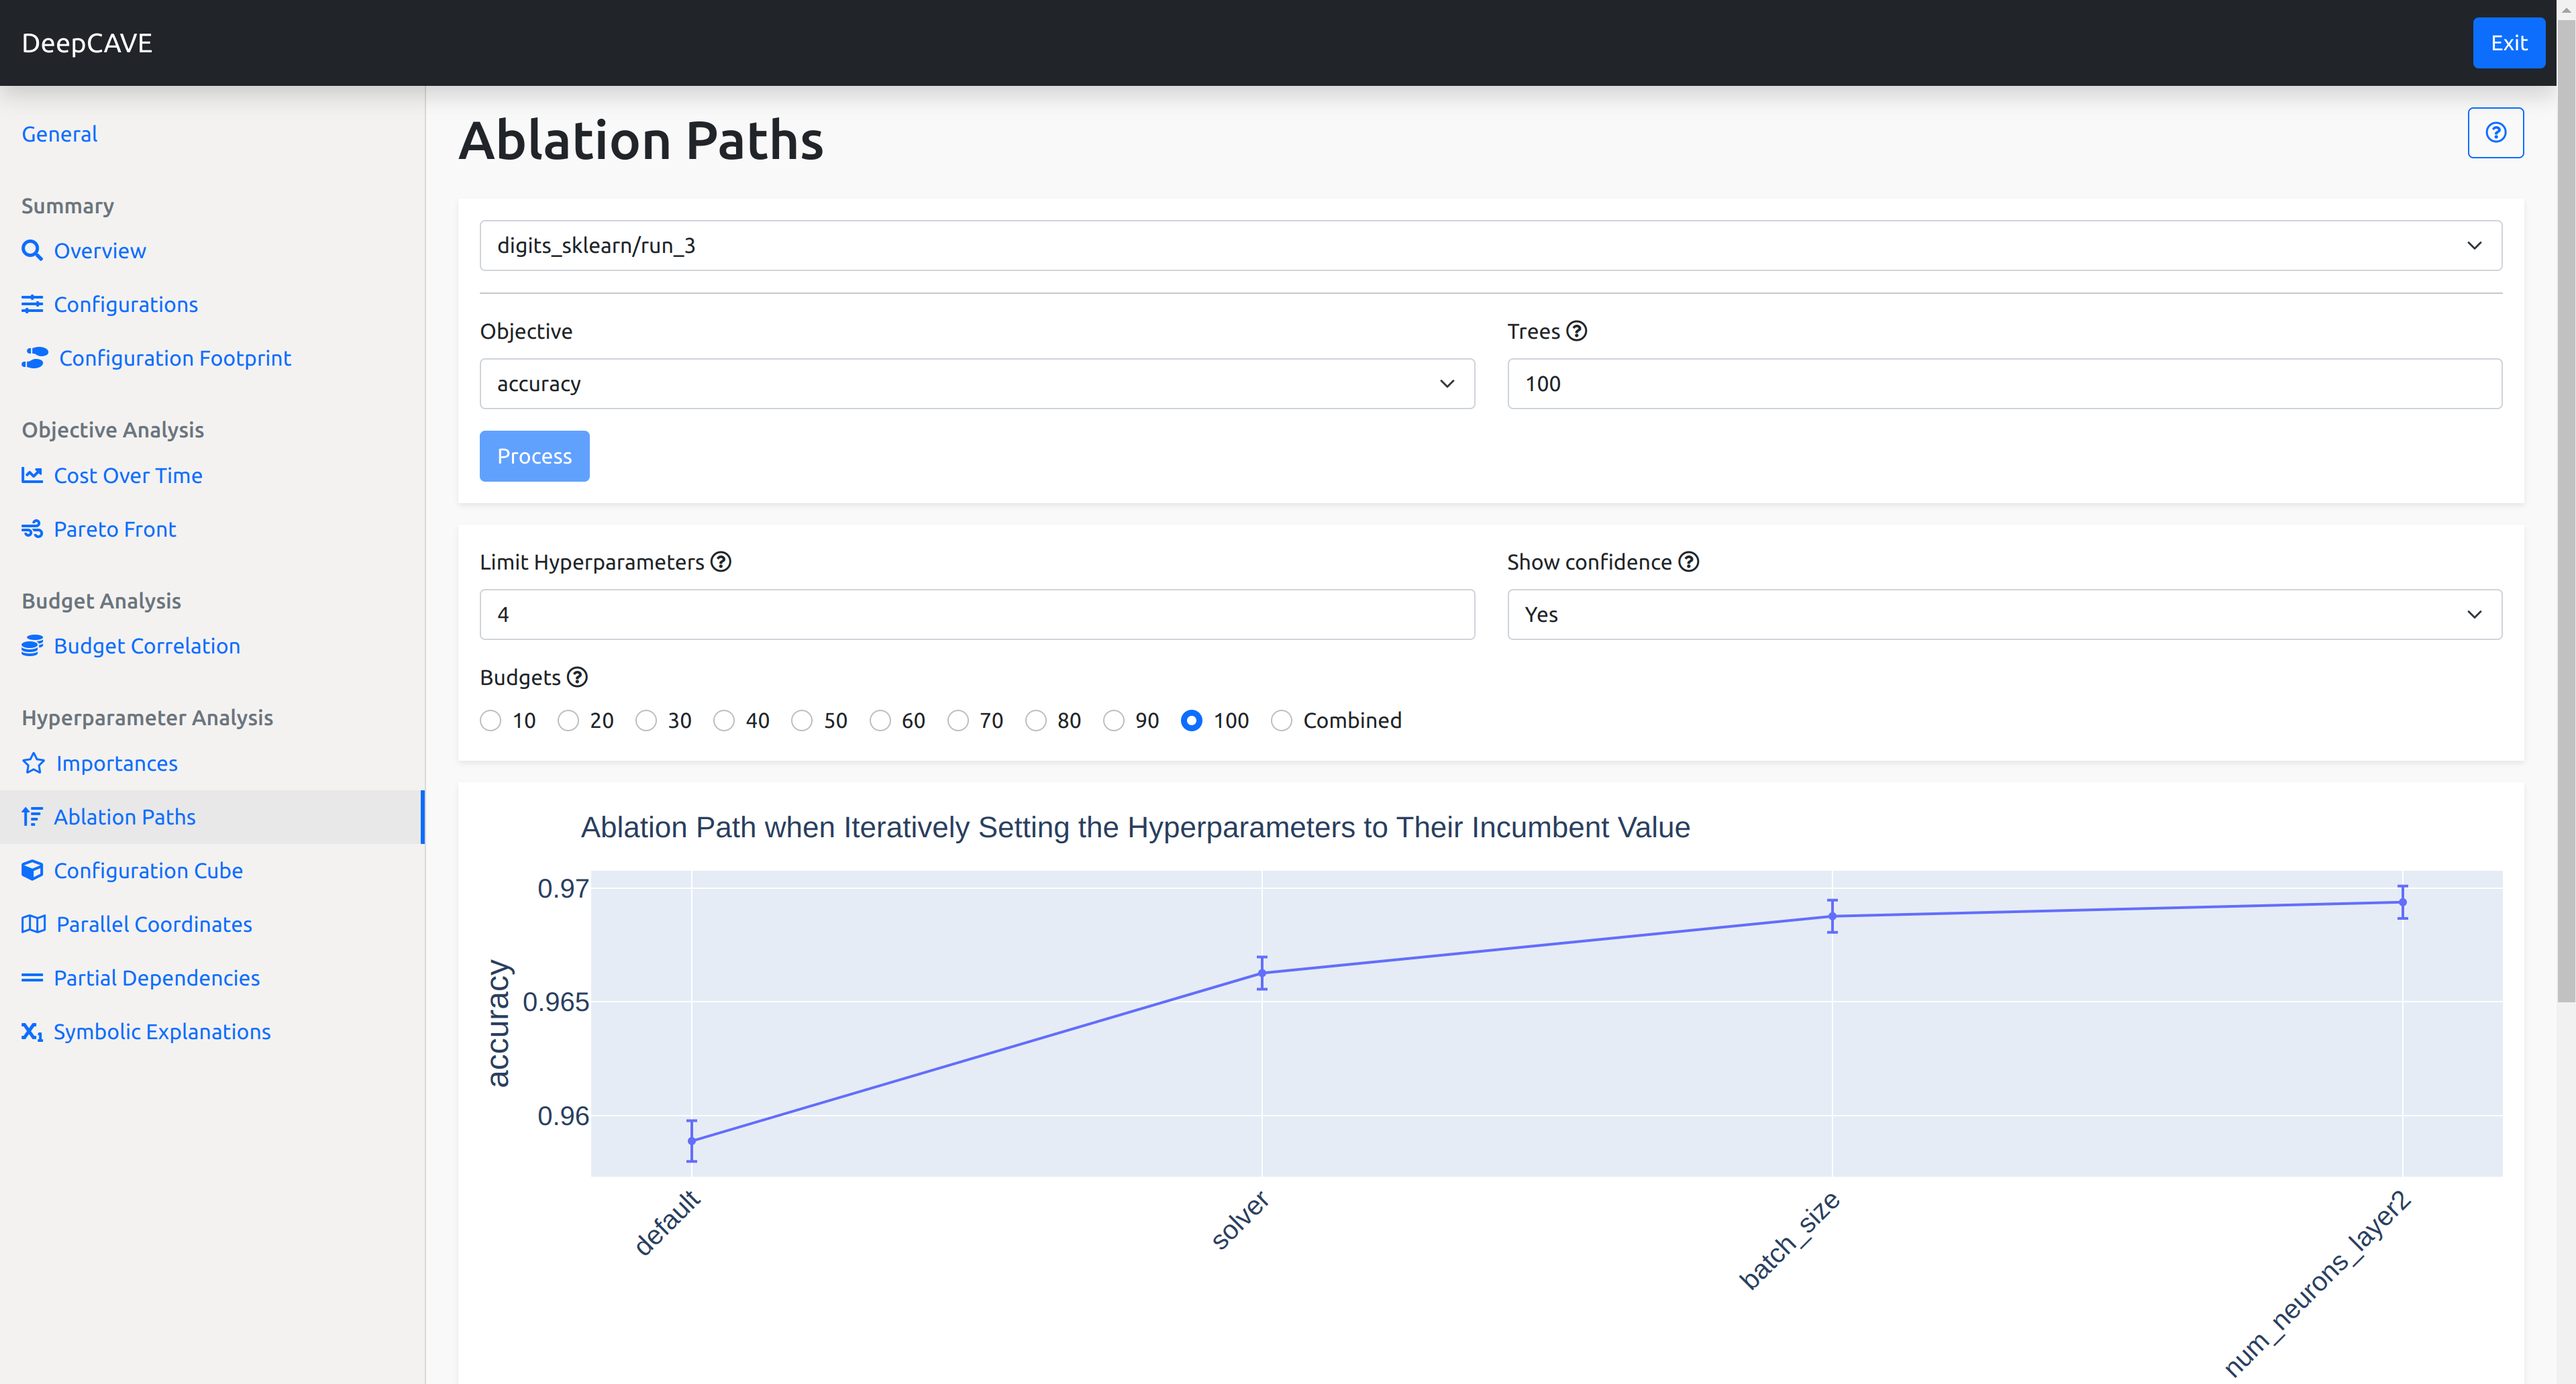
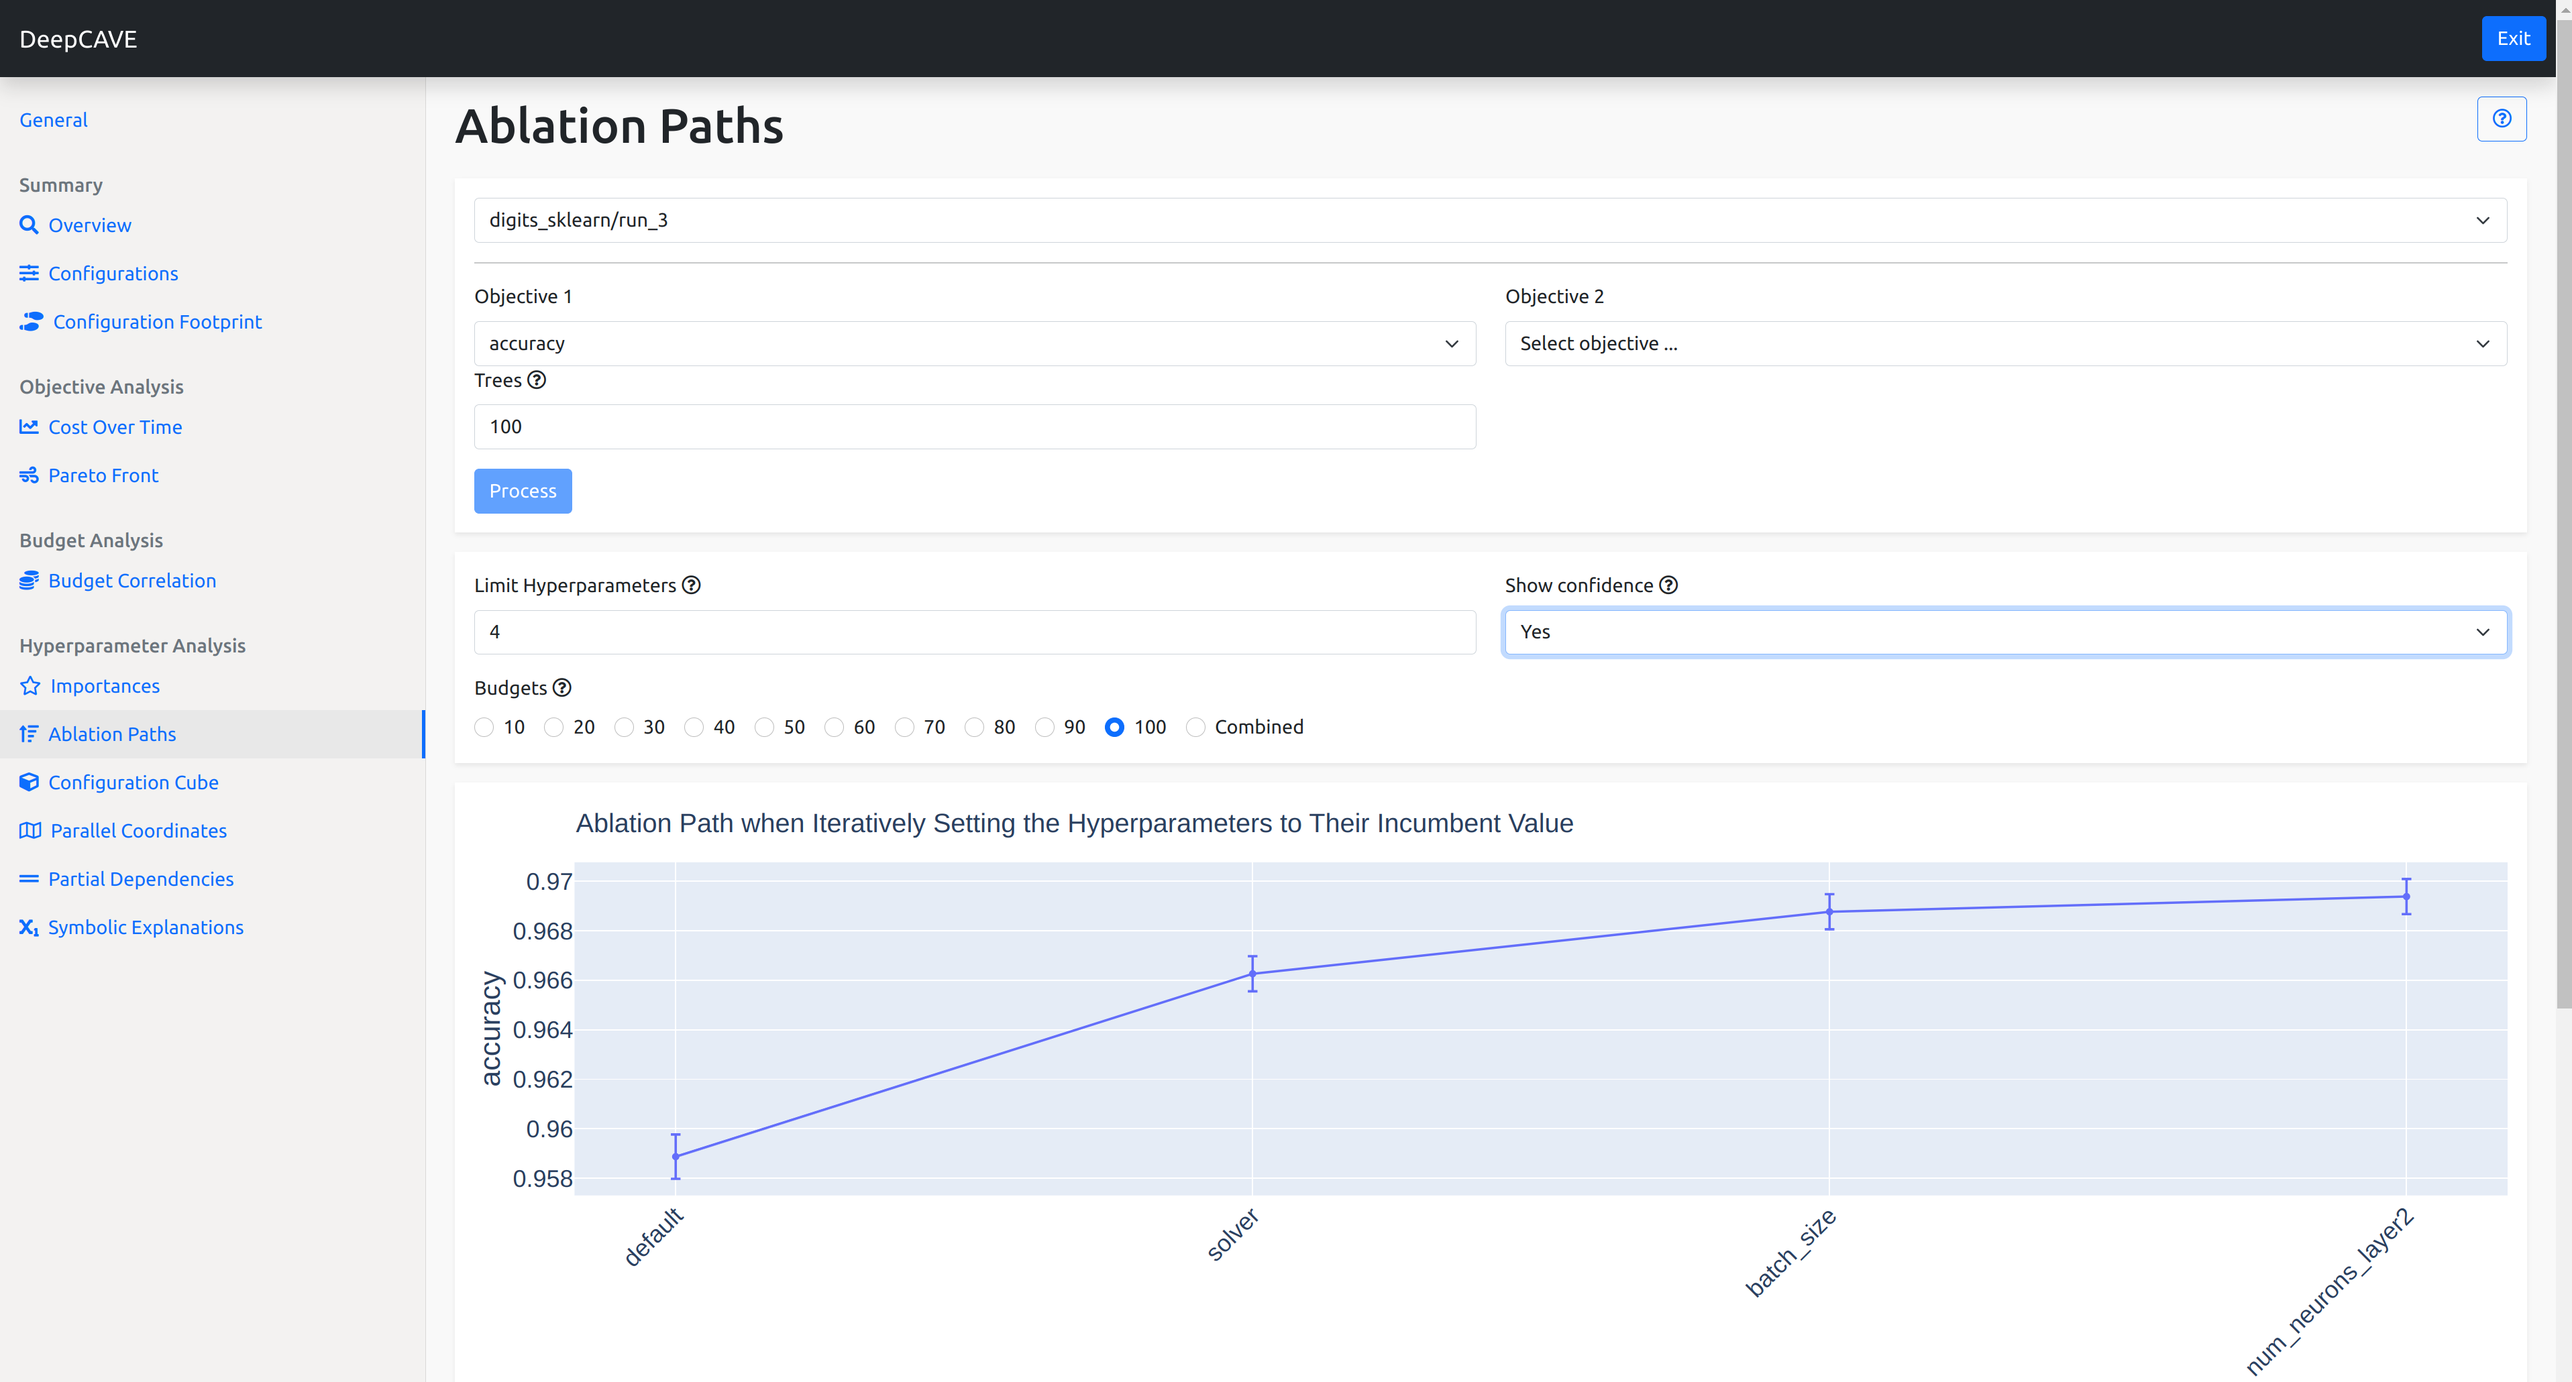
Add second objective to importance docs and update images

diff --git a/deepcave/plugins/objective/pareto_front.py b/deepcave/plugins/objective/pareto_front.py
@@ -137,7 +137,7 @@ class ParetoFront(DynamicPlugin):
                 [
                     dbc.Col(
                         [
-                            dbc.Label("Objective #1"),
+                            dbc.Label("Objective 1"),
                             dbc.Select(
                                 id=register("objective_id_1", ["value", "options"], type=int),
                                 placeholder="Select objective ...",
@@ -147,7 +147,7 @@ class ParetoFront(DynamicPlugin):
                     ),
                     dbc.Col(
                         [
-                            dbc.Label("Objective #2"),
+                            dbc.Label("Objective 2"),
                             dbc.Select(
                                 id=register("objective_id_2", ["value", "options"], type=int),
                                 placeholder="Select objective ...",

diff --git a/docs/plugins/ablation_paths.rst b/docs/plugins/ablation_paths.rst
@@ -1,5 +1,5 @@
 Ablation Paths
-===========
+=============
 
 Ablation Paths is a method to analyze the importance of hyperparameters in a configuration space.
 Starting from a default configuration, the default configuration is iteratively changed to the
@@ -36,7 +36,7 @@ non-dominated solutions. For more detail on this, please see the paper
 
 Options
 -------
-* **Objective**: Select the objective function you wish to analyze.
+* **Objective 1 / 2**: Choose the objective you wish to calculate the ablation path for. Optionally, choose a second objective to see how the importance changes from one objective to the other.
 
 * **Trees:** Specify the number of trees for the random forest surrogate model used in calculating importance scores.
 

diff --git a/docs/plugins/importances.rst b/docs/plugins/importances.rst
@@ -52,7 +52,7 @@ see the paper `Hyperparameter Importance Analysis for Multi-Objective AutoML
 Options
 -------
 
-* **Objective:** Select the objective function you wish to analyze.
+* **Objective 1 / 2**: Choose the objective you wish to calculate the importance for. Optionally, choose a second objective to see how the importance changes from one objective to the other.
 
 * **Method:** Whether to calculate the local parameter importance or the fANOVA importance.
 

diff --git a/docs/plugins/pareto_front.rst b/docs/plugins/pareto_front.rst
@@ -21,7 +21,7 @@ This plugin can help answer the following questions:
 Options
 -------
 
-* **Objective #1 / #2:** Select the objective functions you wish to analyze.
+* **Objective 1 / 2:** Select the objective functions you wish to analyze.
 
 * **Budget**: Select the multi-fidelity budget to be used. The plugin will only consider trials evaluated
   on the selected budget. The *Combined* budget option displays all configurations but shows scores only
